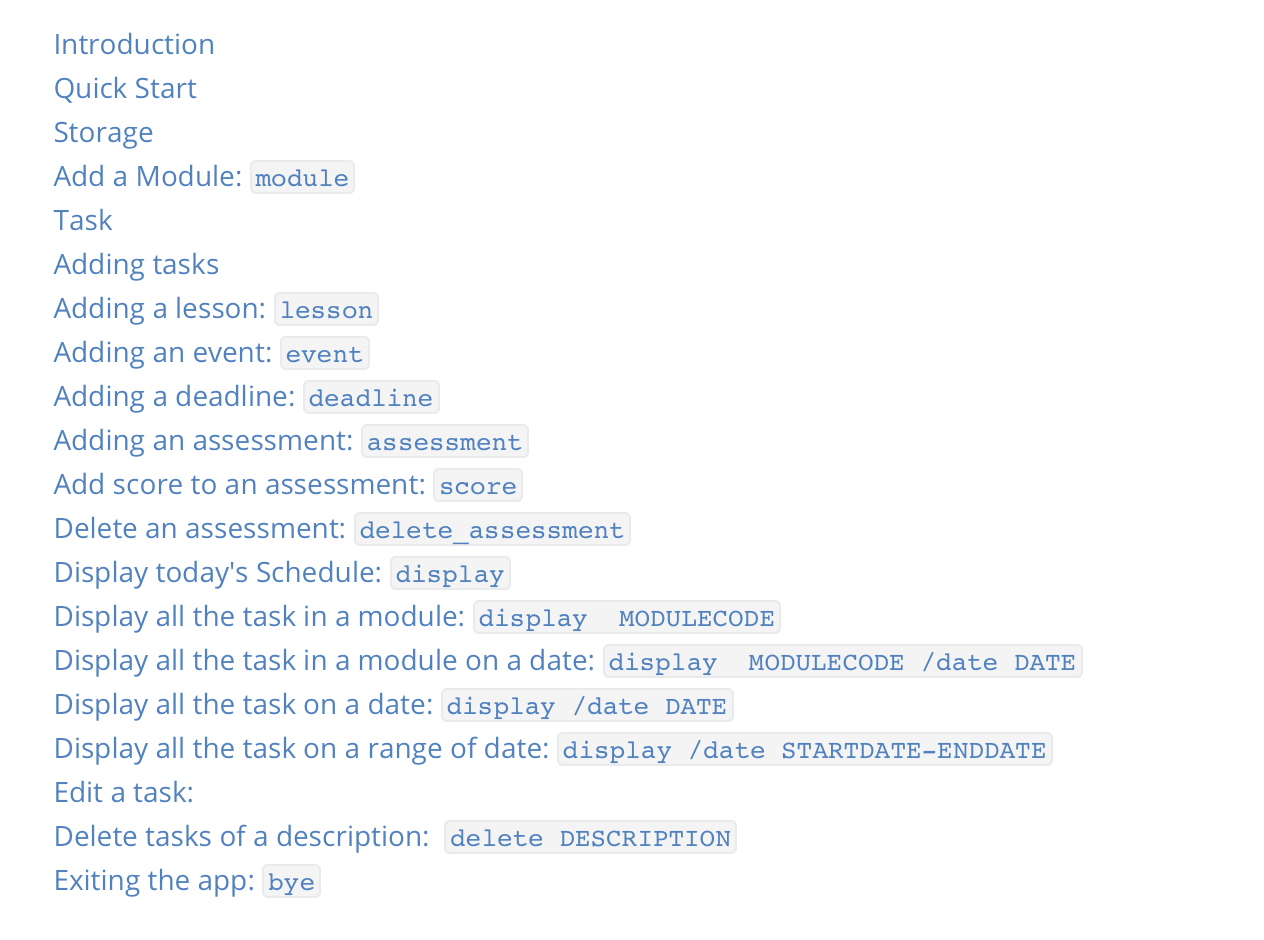
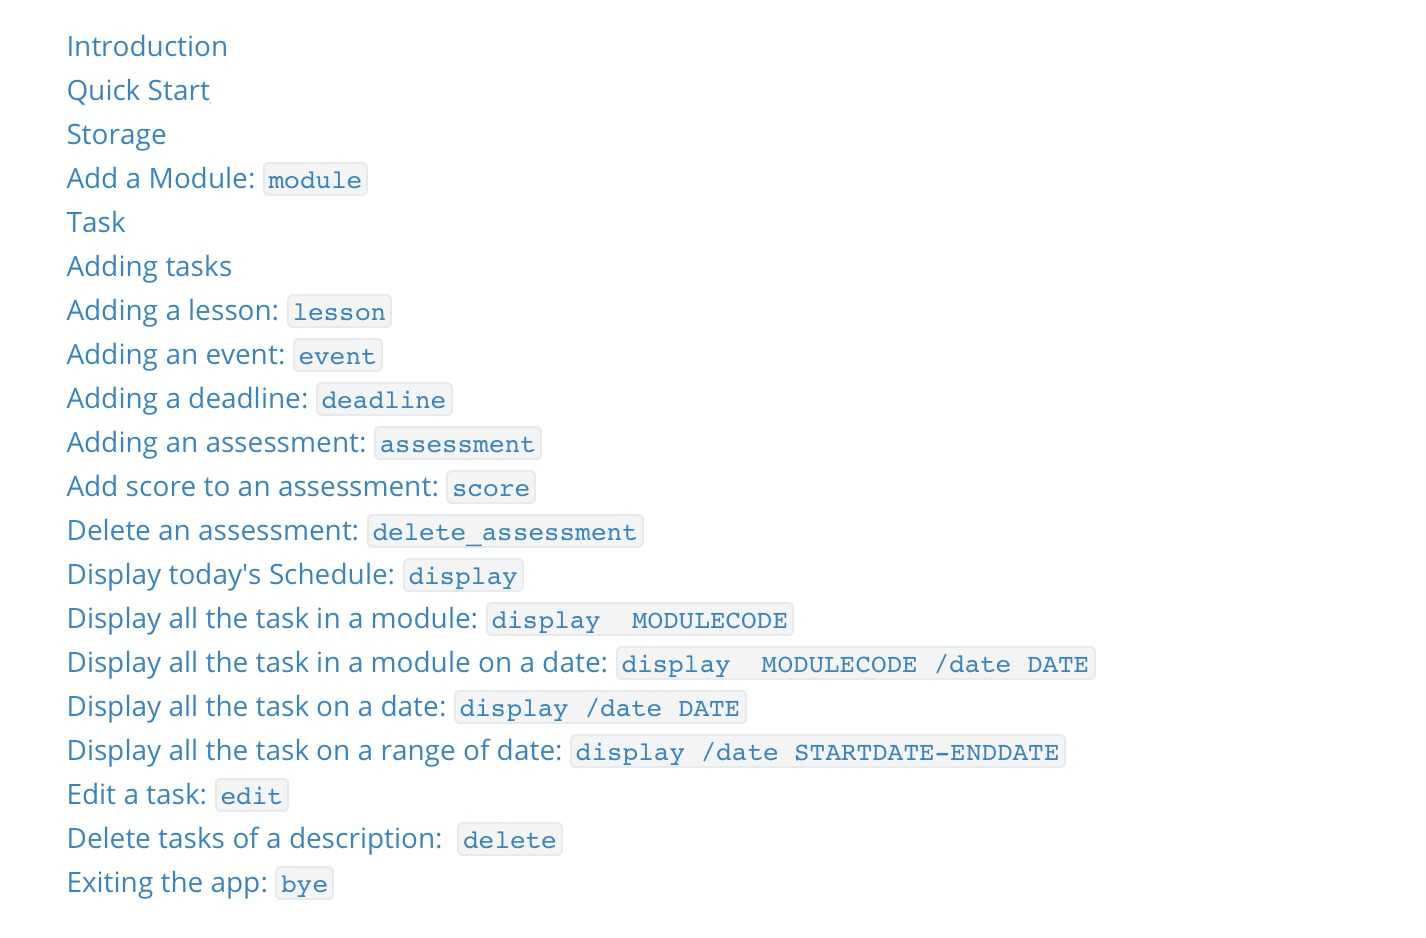
Correct command summary

Changed region(s): [[0.0309, 0.5565, 0.8639, 0.9584], [0.0309, 0.0309, 0.4011, 0.5256]]

diff --git a/docs/UserGuide.md b/docs/UserGuide.md
@@ -639,7 +639,7 @@ The list of task in CS2113:
 
 <-------------------------------------------------------------->
 ```
-## Delete tasks of a description:  `delete DESCRIPTION` 
+## Delete tasks of a description:  `delete` 
 There are several things that a user might want to delete:
 1) Delete all the task that matches a description
 2) Delete all the task that matches a description on a certain date
